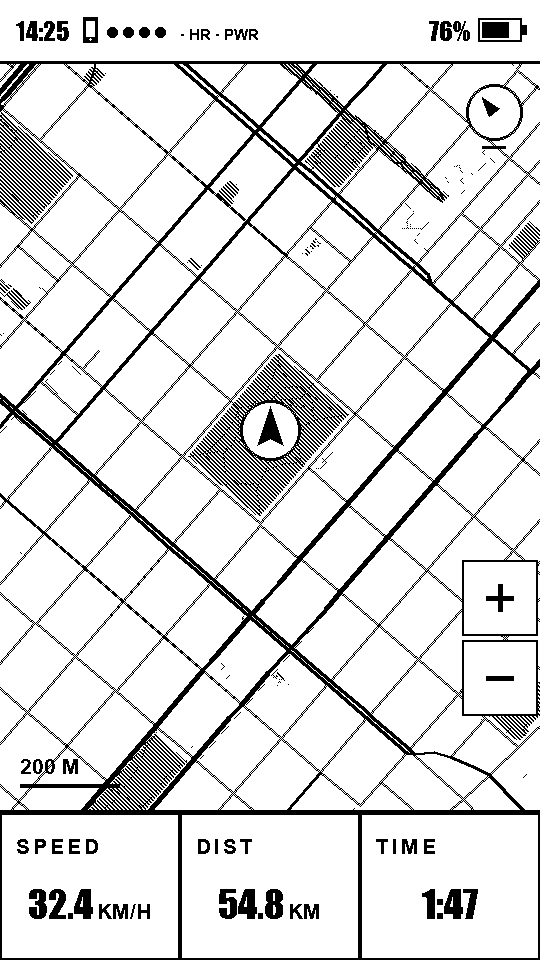
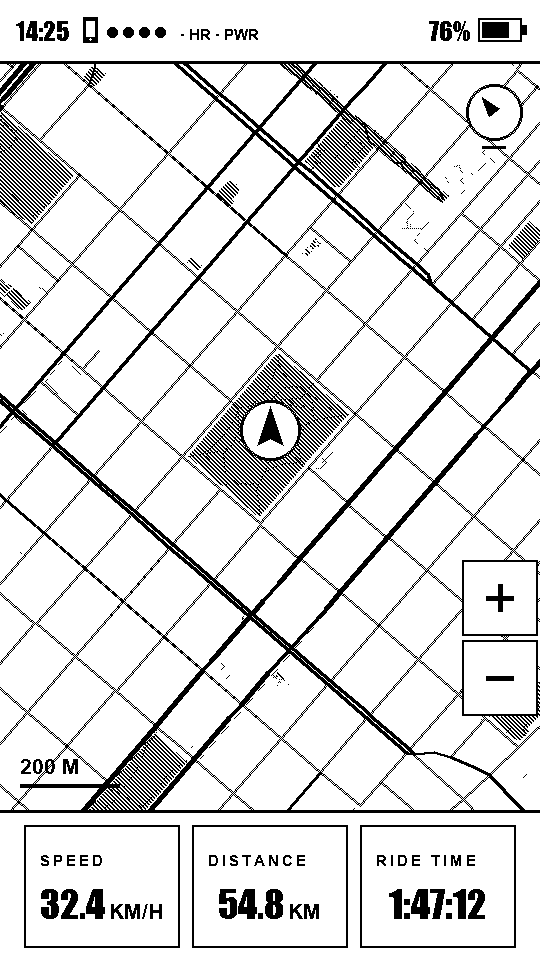
Map strip: dash-page margins and gutters instead of flush thirds
The three cells spanned the full panel width shoulder-to-shoulder —
one wall-to-wall box. They now sit on the data pages' grid: 24 px screen
margin, 12 px gutters, and matching top/bottom air inside the footer
band. The app's map-card preview draws the same geometry.

Claude-Session: https://claude.ai/code/session_01WoqKkeLvXmSTVKh6q6aX1J

Changed region(s): [[0.0, 0.8438, 1.0, 1.0]]

diff --git a/companion-ios/Sources/DashboardEditorView.swift b/companion-ios/Sources/DashboardEditorView.swift
@@ -910,22 +910,22 @@ struct MapPagePreview: View {
                 ForEach(0..<3, id: \.self) { c in
                     let id = c < fields.count ? fields[c] : "speed"
                     ZStack(alignment: .topLeading) {
-                        // Boxed like the data pages' cells — same primitive on
-                        // the device (ui::cell), same look here.
+                        // Boxed like the data pages' cells — same primitive,
+                        // same margins and gutters as the device draws.
                         Rectangle().stroke(.black, lineWidth: max(1, 2 * k))
                         Text(previewPanelLabel(id))
                             .font(.system(size: 15 * k, weight: .bold))
                             .kerning(2 * k)
                             .lineLimit(1).minimumScaleFactor(0.5)
-                            .frame(width: 150 * k, alignment: .leading)
+                            .frame(width: 130 * k, alignment: .leading)
                             .offset(x: 14 * k, y: 12 * k)
                         Text(previewSample(id))
-                            .font(.system(size: 52 * k, weight: .heavy))
+                            .font(.system(size: 48 * k, weight: .heavy))
                             .lineLimit(1).minimumScaleFactor(0.5)
-                            .frame(width: 180 * k, height: 147 * k)
+                            .frame(width: 156 * k, height: 123 * k)
                     }
-                    .frame(width: 180 * k, height: 147 * k, alignment: .topLeading)
-                    .offset(x: CGFloat(c) * 180 * k, y: 813 * k)
+                    .frame(width: 156 * k, height: 123 * k, alignment: .topLeading)
+                    .offset(x: (24 + CGFloat(c) * 168) * k, y: 825 * k)
                 }
             }
             .frame(width: geo.size.width, height: 960 * k, alignment: .topLeading)

diff --git a/src/map_view.cpp b/src/map_view.cpp
@@ -420,9 +420,12 @@ void ui_render_map(const MapScreenData& map, const RideState& s, uint8_t* fb) {
     epd_fill_rect({0, STRIP_TOP, W, H - STRIP_TOP}, ui::PAPER, fb);
     epd_fill_rect({0, STRIP_TOP, W, ui::RULE_HEAVY}, ui::INK, fb);
 
-    const int fy = STRIP_TOP + ui::RULE_HEAVY;
-    const int fh = H - fy;
-    const int colW = W / 3;
+    // Dash-page spacing, not flush thirds: the same 24 px screen margin and
+    // 12 px gutters the data pages use, so the strip reads as three cells with
+    // air rather than one wall-to-wall box.
+    const int fy = STRIP_TOP + ui::RULE_HEAVY + ui::GUTTER;
+    const int fh = H - fy - ui::GUTTER;
+    const int colW = (ui::CONTENT_W - 2 * ui::GUTTER) / 3;
 
     // Fields come from the rider's config (`map` line in dashboard.cfg).
     // One override stays: while navigating, if no cell already shows ROUTE
@@ -465,7 +468,7 @@ void ui_render_map(const MapScreenData& map, const RideState& s, uint8_t* fb) {
         if (idx > vi) vi = idx;
     }
     for (int c = 0; c < 3; ++c) {
-        EpdRect r = {c * colW, fy, colW, fh};
+        EpdRect r = {ui::CONTENT_X + c * (colW + ui::GUTTER), fy, colW, fh};
         // Greyed like a dash cell when the source is gone — a strip cell must
         // never show a live-looking number from a dead sensor either.
         bool stale = !dashFieldAvailable(f3[c], s) && !s.showOffline;
